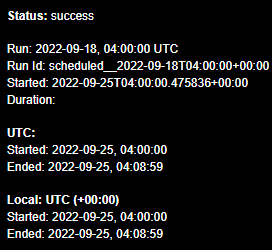
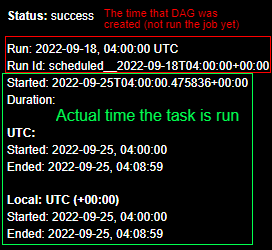
a

Changed region(s): [[0.0, 0.14, 1.0, 0.98], [0.2059, 0.42, 0.8824, 0.504], [0.3824, 0.028, 0.8824, 0.112]]

diff --git a/apache_airflow/README.md b/apache_airflow/README.md
@@ -38,6 +38,14 @@ example of using cron expression:
 
 ## 2. ```start_date``` variable explanation
 
+- start_date = The first time that DAG is created (not the first time running the job)
+- execution_date = time for running the job/tasks
+- schedule_interval = interval for running the DAG, parameter accepts cron or timedelta values
+
+**formula:**
+> execution_date = start_date + schedule_interval
+> next_execution_date = last_execution_date + schedule_interval
+
 <img src="image/image_1.png">
 
 ## 3. Example of DAG script in Airflow
